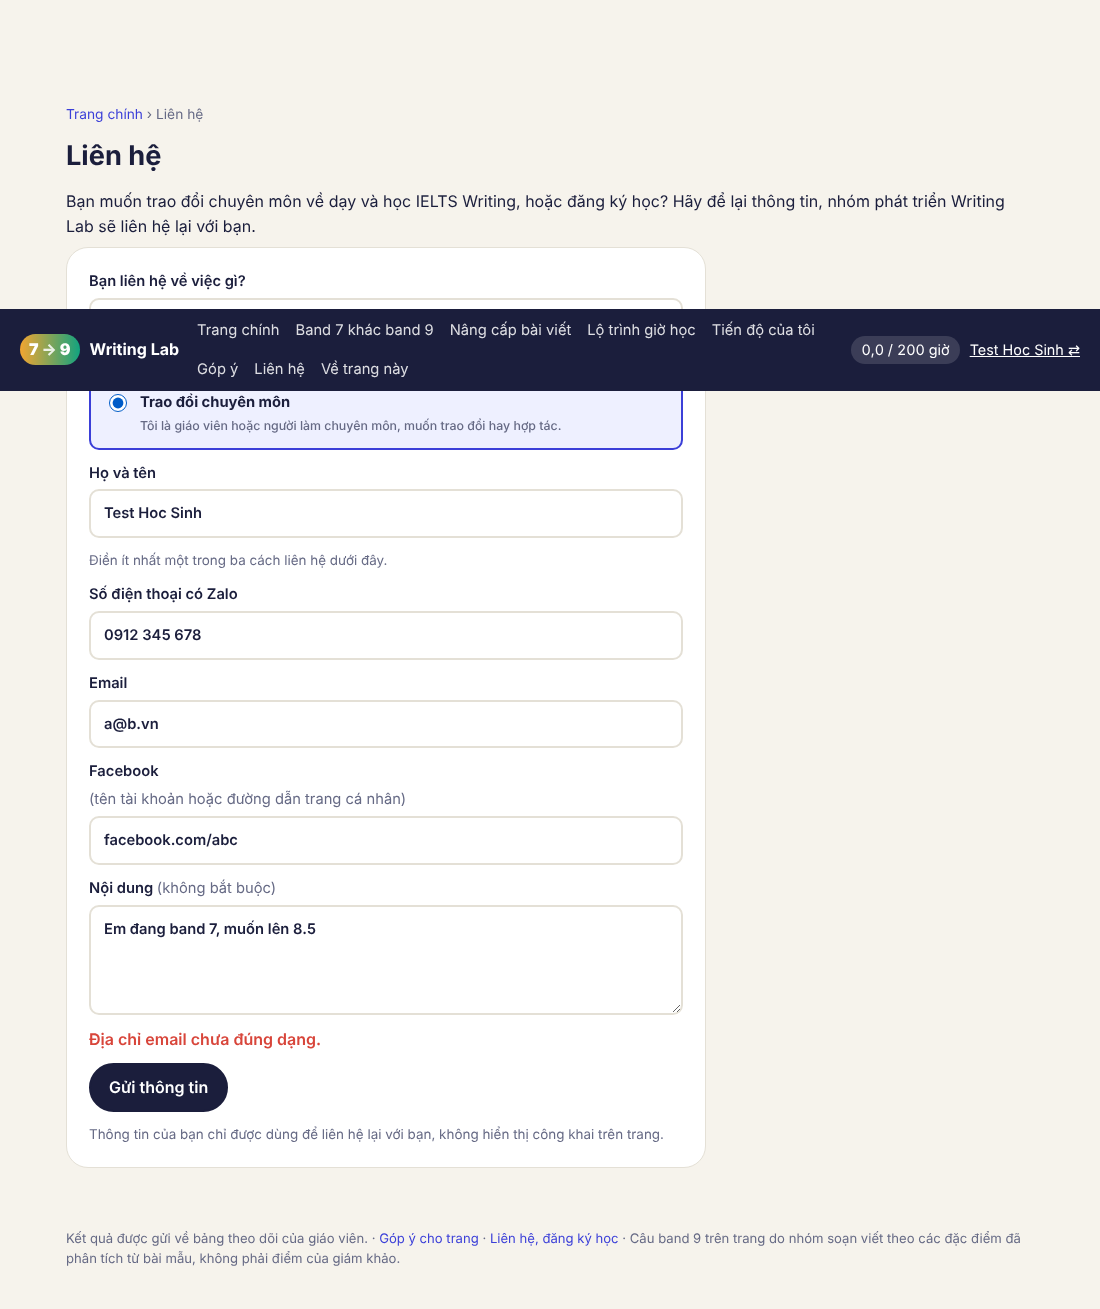
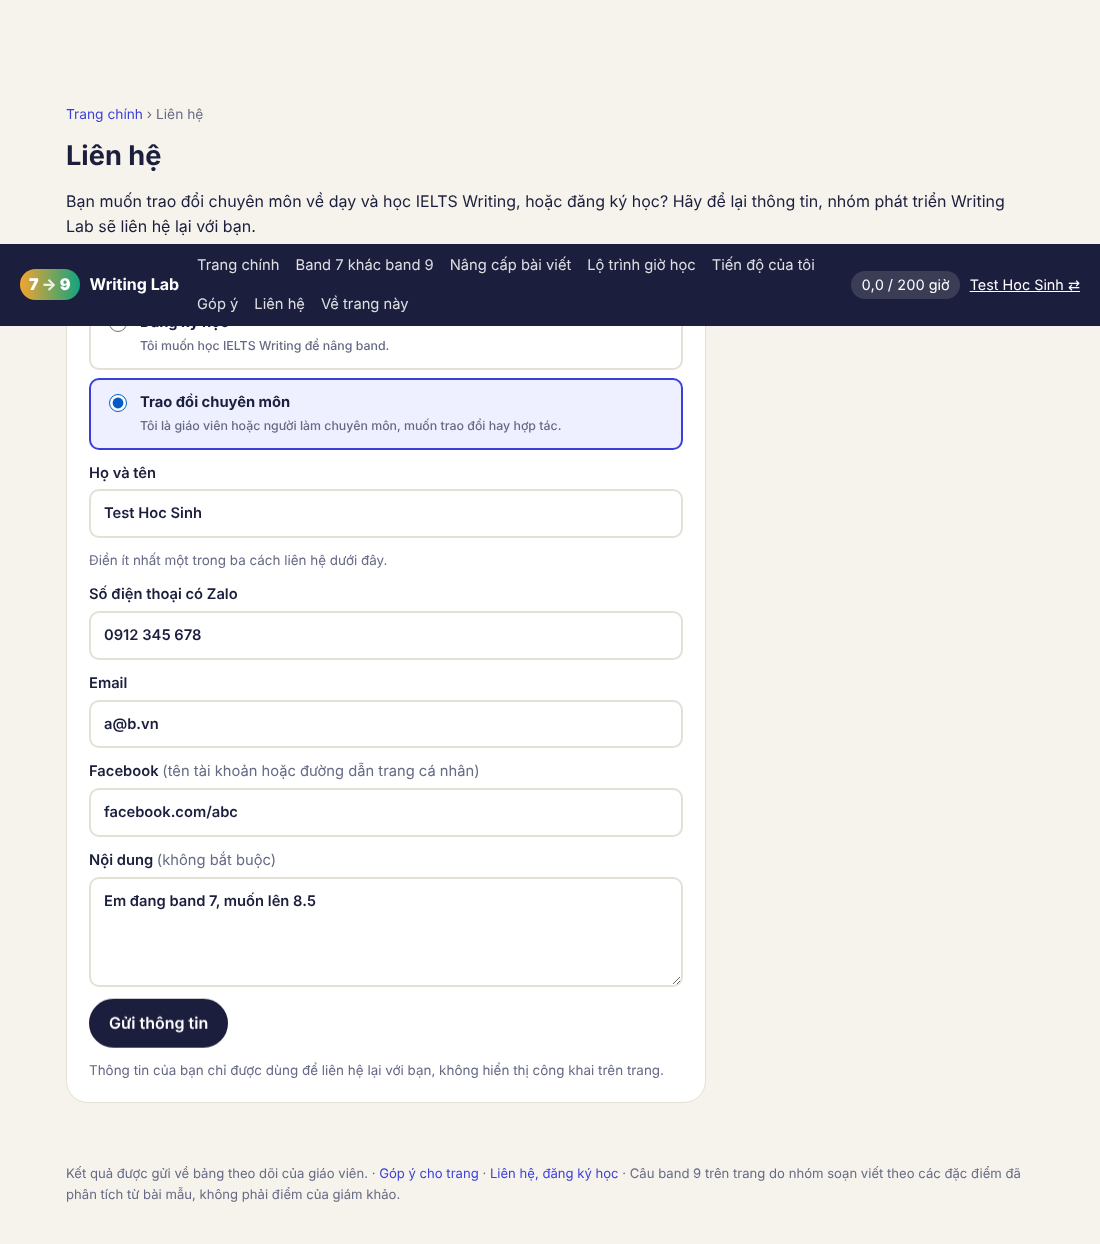
Chỉnh câu chữ và báo lỗi của form liên hệ
Claude-Session: https://claude.ai/code/session_01RP6wcXXRTyqtL87ipQ1ER9

diff --git a/index.html b/index.html
@@ -3050,12 +3050,13 @@ B79.bank = [{"id":"b1","tp":"media","ty":"posneg","q":"Advertising is becoming m
         <p class="small" style="margin:0">Điền ít nhất một trong ba cách liên hệ dưới đây.</p>
         <label>Số điện thoại có Zalo<input id="cp" type="tel" inputmode="tel" maxlength="16" autocomplete="tel" placeholder="Ví dụ: 0912 345 678"></label>
         <label>Email<input id="ce" type="email" maxlength="120" autocomplete="email" placeholder="ten@example.com"></label>
-        <label>Facebook <span class="opt-l" style="display:inline">(tên tài khoản hoặc đường dẫn trang cá nhân)</span><input id="cb" maxlength="160" placeholder="facebook.com/…"></label>
+        <label><span>Facebook <span class="opt-l">(tên tài khoản hoặc đường dẫn trang cá nhân)</span></span><input id="cb" maxlength="160" placeholder="facebook.com/…"></label>
         <label><span>Nội dung <span class="opt-l">(không bắt buộc)</span></span><textarea id="cm" maxlength="1500" placeholder="Ví dụ: band hiện tại và mục tiêu của bạn, thời gian bạn có thể học, hoặc chủ đề bạn muốn trao đổi…"></textarea></label>
         <p class="cerr" id="cerr" role="alert" hidden></p>
         <div class="bar-actions" style="margin-top:0"><button class="btn primary" type="submit">Gửi thông tin</button></div>
         <p class="small" style="margin:0">Thông tin của bạn chỉ được dùng để liên hệ lại với bạn, không hiển thị công khai trên trang.</p>
       </form>`, `<a href="#/">Trang chính</a> › Liên hệ`);
+    $("#cf").oninput = () => { $("#cerr").hidden = true; };
     $("#cf").onsubmit = e => {
       e.preventDefault();
       const name = $("#cn").value.trim().replace(/\s+/g, " "), phone = $("#cp").value.trim(), email = $("#ce").value.trim(), fb = $("#cb").value.trim(), msg = $("#cm").value.trim(), why = $('input[name="why"]:checked').value;
@@ -3069,7 +3070,7 @@ B79.bank = [{"id":"b1","tp":"media","ty":"posneg","q":"Advertising is becoming m
       const whyL = why === "enrol" ? "Đăng ký học" : "Trao đổi chuyên môn";
       if (CFG.endpoint) {
         send({ kind: "contact", name: name, tech: "", topic: "", type: why, ok: 0, try: 0, sec: 0, words: words(msg), text: JSON.stringify({ phone: phone, email: email, fb: fb, msg: msg, user: U.name }) });
-        $("#cf").outerHTML = `<div class="cform"><p class="fbthanks">✓ Cảm ơn ${esc(name)}. Thông tin đã được gửi.</p><p style="margin:0">Nhóm phát triển sẽ liên hệ lại với bạn qua ${[phone && "Zalo", email && "email", fb && "Facebook"].filter(Boolean).join(" hoặc ")} trong thời gian sớm nhất.</p><div class="bar-actions" style="margin-top:0"><a class="btn primary" href="#/">Về trang chính</a></div></div>`;
+        $("#cf").outerHTML = `<div class="cform"><p class="fbthanks">✓ Cảm ơn ${esc(name)}. Thông tin đã được gửi.</p><p style="margin:0">Nhóm phát triển sẽ liên hệ lại với bạn qua ${[phone && "Zalo", email && "email", fb && "Facebook"].filter(Boolean).join(", ").replace(/, ([^,]*)$/, " hoặc $1")} trong thời gian sớm nhất.</p><div class="bar-actions" style="margin-top:0"><a class="btn primary" href="#/">Về trang chính</a></div></div>`;
       } else {
         const body = "Mục đích: " + whyL + "\nHọ tên: " + name + "\nSố điện thoại (Zalo): " + (phone || "-") + "\nEmail: " + (email || "-") + "\nFacebook: " + (fb || "-") + "\n\nNội dung:\n" + (msg || "-");
         $("#cf").outerHTML = `<div class="cform"><p class="fbthanks">Còn một bước nữa.</p><p style="margin:0">Trang chưa nối với hộp thư của nhóm, nên hãy bấm nút dưới để gửi thông tin qua email.</p><div class="bar-actions" style="margin-top:0"><a class="btn primary" href="mailto:${esc(PAID.email)}?subject=${encodeURIComponent("[Band 7→9] " + whyL + ": " + name)}&body=${encodeURIComponent(body)}">Gửi qua email</a></div></div>`;
